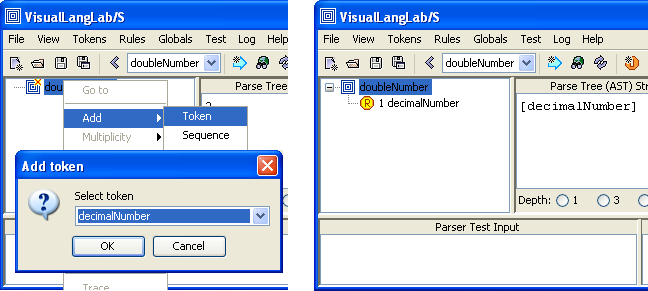
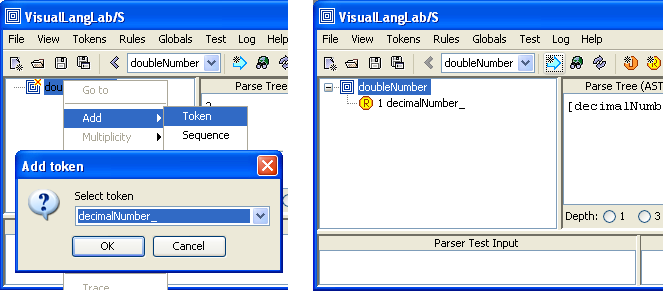
Binary release 6.04
git-svn-id: https://svn.java.net/svn/vll~svn/trunk@211 c0272bae-d8de-c28f-bcdf-8b42aff4940e

diff --git a/VLLS/docs/RapidPrototypingForScala.html b/VLLS/docs/RapidPrototypingForScala.html
@@ -94,8 +94,8 @@ VisualLangLab - Grammar without Tears</a>.
 <p>
 To run <a href="http://vll.java.net/">VisualLangLab</a>, just download 
 <a href="http://java.net/projects/vll/downloads/download/VLLS-All.jar" target="_blank">VLLS-All.jar</a> 
-and double-click it in a file-browser. Linux and UNIX users will have to enable execution 
-(<i>chmod +x ...</i>) first. 
+and double-click it in a file-browser. Linux, Mac OS, and UNIX users will have to enable execution first 
+(<i>chmod +x VisualLangLab.jar</i>). 
 Another file, <a href="http://java.net/projects/vll/downloads/download/VLLS.jar" target="_blank">VLLS.zip</a>, 
 which contains the documentation files, sample grammars, etc. should also be downloaded.
 </p>
@@ -159,22 +159,15 @@ by importing the corresponding <i>token library</i>.
 Select <i>Tokens -> Import tokens</i> from the main menu, or click the <i>Import tokens</i> 
 (<img src="images/Import16.gif" align="center"/>) button, and choose the file 
 <i>TL-JavaTokenParsers.vll</i> from the the <i>grammars</i> directory of the zip distribution. 
-This token-library contains <i>regex</i> and <i>literal</i> tokens with the same 
-names and functionality as the parsers in <code>JavaTokenParsers</code>. 
+This token-library contains <i>regex</i> tokens with the same names and functionality. 
+However, for reasons explained in <a href="#JavaTokenParsers">JavaTokenParsers</a> 
+below, all the names have an underscore (_) suffix. 
 </p>
 
 <h3 id="DefDoubleNumber">def doubleNumber = floatingPointNumber ...</h3>
 
 <p>
 This is a very simple parser-rule, and just matches one token unconditionally. 
-For reasons explained in <a href="#JavaTokenParsers">JavaTokenParsers</a> 
-below, we will modify its definition and implement it as the following rule instead.
-</p>
-
-<pre><code>def doubleNumber = <strike>floatingPointNumber</strike><u>decimalNumber</u>
-</code></pre>
-
-<p>
 To create the new rule click the <i>New rule</i> button 
 (<img src="images/NewReference.gif" align="center"/>), 
 and enter <i>doubleNumber</i> into the dialog box presented as in Figure-3 below. 
@@ -191,7 +184,7 @@ Clicking the dialog's <i>OK</i> button creates a new rule with just a
 Now right-click the Root node, and select <i>Add -> Token</i> from the popup 
 context-menu. Another dialog with the names of available tokens is presented 
 as shown on the left side of Figure-4 below. 
-Select <i>decimalNumber</i> and click the <i>OK</i> button. Your almost-complete 
+Select <i>decimalNumber_</i> and click the <i>OK</i> button. Your almost-complete 
 parser-rule should look like the right side of Figure-4 below. 
 </p>
 
@@ -398,21 +391,6 @@ given below into the text area under <i>Action Code</i>. Then click the <i>Save<
 <p>
 Action-code function design and use is explained in <a href="#ActionCode">Action Code</a> below. 
 Your finished parser-rule should look like the one on the right side of Figure-9 above. 
-</p>
-
-<h3 id="DefDuration">def duration = decimalNumber ~ weekDays ...</h3>
-
-<p>
-There is nothing new to describe in the structure of this rule, but it is included here 
-only to note that, like rule <a href="#DefDoubleNumber">doubleNumber</a> above, 
-this rule too will have to be modified to the following definition.
-</p>
-
-<pre><code>def duration = <strike>decimalNumber</strike><u>wholeNumber</u> ~ weekDays ...</code></pre>
-
-<p>
-To understand why this is required, read <a href="#JavaTokenParsers">
-JavaTokenParsers</a> below.
 </p>
 
 <h2 id="AdHocTesting">Ad Hoc Testing - A Short Detour</h2>
@@ -1127,29 +1105,19 @@ Many example parsers in tutorials and other resources extend
 <a href="http://www.scala-lang.org/api/current/scala/util/parsing/combinator/JavaTokenParsers.html" target="_blank">
 JavaTokenParsers</a>, so VisualLangLab provides a token library in it's place. 
 Those planning to use this token library should, however, note that the tokens defined in 
-it have somewhat different properties from the parsers in 
-<a href="http://www.scala-lang.org/api/current/scala/util/parsing/combinator/JavaTokenParsers.html" target="_blank">
-JavaTokenParsers</a>. The differences are noted below:
+it have names ending in an underscore (_). Ending the name of a token in an underscore causes 
+VisualLangLab's built-in lexer to be bypassed, in favor of the 
+<a href="http://www.scala-lang.org/api/current/scala/util/parsing/combinator/RegexParsers.html" target="_blank">RegexParsers</a> 
+capability. 
 </p>
 
-<ul style="list-style-type: disc;">
-  <li><code>wholeNumber</code> - matches a string consisting of one or more decimal digits 
-      ('0' through '9') optionally prefixed with a minus sign ('-').</li>
-  <li><code>decimalNumber</code> - matches a string of one or more decimal digits also containing 
-      a single decimal point ('.')</li>
-  <li><code>floatingPointNumber</code> - matches a string of decimal digits optionally containing 
-      a decimal point, and mandatorily followed by either an exponent part or a float/double indicator 
-      or both. An optional minus sign ('-') may also be prefixed to the whole string.</li>
-</ul>
-
 <p>
-These changes are required because this version of the lexer works best when the regex 
+This change is required because the builtin lexer works best when the regex 
 definitions are distinct, and multiple regex tokens will not match the same lexeme. 
-The regular expressions used in 
+But the regular expressions used in 
 <a href="http://www.scala-lang.org/api/current/scala/util/parsing/combinator/JavaTokenParsers.html" target="_blank">
 JavaTokenParsers</a> are such that <code>floatingPointNumber</code> subsumes both <code>decimalNumber</code> 
 and <code>wholeNumber</code>, and <code>decimalNumber</code> itself subsumes <code>wholeNumber</code>. 
-This lexer limitation is expected to be removed in verion 6.xx. 
 </p>
 
 <h2 id="ProsAndCons">Pros and Cons</h2>
@@ -1216,11 +1184,15 @@ a hand-written parser based on Scala parser combinators.
     <td style="text-align: center; padding: 2px">-</td>
   </tr>
   <tr bgcolor="#dddddd">
-    <td style="padding: 2px">The AST is defined using common types from the Scala API, so no specialized knowledge is needed</td>
+    <td style="padding: 2px">The AST is defined using common types from the Scala API, so no specialized 
+        knowledge is needed when using AST from Scala. Programs in other JVM languages can obtain a 
+        version of the AST constructed from JVM types only (release 6.01+). </td>
     <td style="text-align: center; padding: 2px">-</td>
   </tr>
   <tr bgcolor="#dddddd">
-    <td style="padding: 2px">All elements in the AST are amenable to Scala pattern matching, so AST processing is simple</td>
+    <td style="padding: 2px">All elements in the AST are amenable to Scala pattern matching, 
+        so AST processing is simple. Programs in other JVM languages have to deal with a mutually 
+        nested structure of arrays and lists. </td>
     <td style="text-align: center; padding: 2px">-</td>
   </tr>
 
@@ -1242,7 +1214,9 @@ a hand-written parser based on Scala parser combinators.
   </tr>
   <tr>
     <td style="text-align: center; padding: 2px">-</td>
-    <td style="padding: 2px">Lexical context of the parser is not available to action code</td>
+    <td style="padding: 2px">Lexical context of the parser is not available to action code. 
+        However, since this restricts the action-code to its own <i>sand-box</i> it can be 
+        seen as an an advantage too. </td>
   </tr>
 
   <tr bgcolor="#dddddd">
@@ -1271,14 +1245,12 @@ a hand-written parser based on Scala parser combinators.
     <td style="text-align: center; padding: 2px">-</td>
   </tr>
   <tr>
-    <td style="padding: 2px">API usable from any JVM language. However lack of 
-        Scala's pattern-matching capability may make the code 
-        awkward</td>
+    <td style="padding: 2px">API usable from any JVM language (release 6.01+)</td>
     <td style="text-align: center; padding: 2px">-</td>
   </tr>
   <tr>
     <td style="padding: 2px">Parser does not have to be compiled or linked into host program.
-        The parser can even be modified without affecting the host program 
+        The parser can even be modified separately without affecting the host program 
         (provided the AST structure is not changed)</td>
     <td style="text-align: center; padding: 2px">-</td>
   </tr>
@@ -1294,7 +1266,8 @@ a hand-written parser based on Scala parser combinators.
     <td style="text-align: center; padding: 2px">-</td>
   </tr>
   <tr bgcolor="#dddddd">
-    <td style="padding: 2px">Test drivers for black-box testing are easily created and run withing the IDE</td>
+    <td style="padding: 2px">Test drivers for black-box testing are easily created and run within 
+        the IDE</td>
     <td style="text-align: center; padding: 2px">-</td>
   </tr>
   <tr bgcolor="#dddddd">

diff --git a/VLLS/docs/EditingTheGrammarTree.html b/VLLS/docs/EditingTheGrammarTree.html
@@ -67,24 +67,32 @@
 
     <table border="1" style="border: 1px solid black;">
       <tr><td colspan="2"  style="text-align: center; font-weight: bold;"><b>Non-terminals</b></td></tr>
-      <tr><td><img src="images/GrammarIconRoot.gif"/></td><td>Root - this icon is used for the root 
-          node of every grammar tree (as in Figure-1 above)</td></tr>
-      <tr><td><img src="images/GrammarIconChoice.gif"/></td><td>Choice - used as the parent of a group 
-          of alternative items (any one of which should occur in the input)</td></tr>
-      <tr><td><img src="images/GrammarIconSequence.gif"/></td><td>Sequence - used as the parent of a 
-          sequence of items all of which should occur in the order specified</td></tr>
-      <tr><td><img src="images/GrammarIconRepSep.gif"/></td><td>RepSep - placeholder for a sequence 
-          of items (first child node) separated by the designated separator (second child node)</td></tr>
       <tr><td><img src="images/GrammarIconReference.gif"/></td><td>Reference - invokes another 
           named parser</td></tr>
-      <tr><td><img src="images/GrammarIconSemPred.gif"/></td><td>Semantic predicate - 
-          makes a parser-rule succeed or fail depending on the run-time value of a 
-          user-provided expression</td></tr>
+      <tr><td colspan="2"  style="text-align: center; font-weight: bold;">
+          <b>Internal Nodes (Combinator Functions)</b></td></tr>
+      <tr><td><img src="images/GrammarIconChoice.gif"/></td><td>Choice (or <i>Alternation</i>) - 
+          parent node of 2 or more alternatives of which any one occurs in the input</td></tr>
+      <tr><td><img src="images/GrammarIconSequence.gif"/></td><td>Sequence (or <i>Concatenation</i>) - 
+          parent node of 2 or more items which should occur in the order specified</td></tr>
+      <tr><td><img src="images/GrammarIconRepSep.gif"/></td><td>RepSep - placeholder for a sequence 
+          of items (specified by first child) alternating with instances of a separator 
+          (specified by second child). For details, see descriptions of the 
+          <code>repsep()</code> and <code>rep1sep()</code> combinators in the Scala API's 
+          <a href="http://www.scala-lang.org/api/current/scala/util/parsing/combinator/Parsers.html">Parsers</a> class. 
+          Depending on the multiplicity setting (either "*" or "+"), a <i>RepSep</i> behaves like a 
+          <code>repsep()</code> or a <code>rep1sep()</code> respectively. </td></tr>
       <tr><td colspan="2"  style="text-align: center; font-weight: bold;"><b>Terminals</b></td></tr>
-      <tr><td><img src="images/GrammarIconLiteral.gif"/></td><td>Literal - a token that matches a 
-          specified pattern literally</td></tr>
-      <tr><td><img src="images/GrammarIconRegex.gif"/></td><td>Regexp - a token that matches a 
-          specified regular-expression</td></tr>
+      <tr><td><img src="images/GrammarIconLiteral.gif"/></td><td>Literal (or <i>keyword</i> / 
+          <i>reserved word</i>) - a token that matches a specified pattern literally</td></tr>
+      <tr><td><img src="images/GrammarIconRegex.gif"/></td><td>Regexp (vanilla <i>token</i>) - 
+          a token that matches a specified regular-expression</td></tr>
+      <tr><td colspan="2"  style="text-align: center; font-weight: bold;"><b>Others</b></td></tr>
+      <tr><td><img src="images/GrammarIconRoot.gif"/></td><td>Root - this icon is used for the root 
+          node of every grammar tree (as in Figure-1 above)</td></tr>
+      <tr><td><img src="images/GrammarIconSemPred.gif"/></td><td>Semantic predicate - 
+          used as a child of a <i>Sequence</i>, succeeds or fails depending on the run-time value of a 
+          user-provided expression</td></tr>
       <tr><td colspan="2"  style="text-align: center; font-weight: bold;"><b>Icon overlays</b></td></tr>
       <tr><td><img src="images/GrammarIconCommitMark.gif"/></td><td>Commit - displayed on top 
           of a parser-rule node that has the <i>commit</i> annotation</td></tr>

diff --git a/VLLS/docs/index.html b/VLLS/docs/index.html
@@ -128,6 +128,11 @@
     </tr>
   </table>
 
+  <h2 id="HELPForum">HELP Forum</h2>
+
+  <p>If you want to report an issue, request help, or just show off a new parser, 
+  post a message at the <a href="http://java.net/projects/vll/forums/vll-forum">VisualLangLab HELP</a> forum. </p>
+
   <h2>Download, Installation, and Running</h2>
 
   <p>The latest binary relase is 
